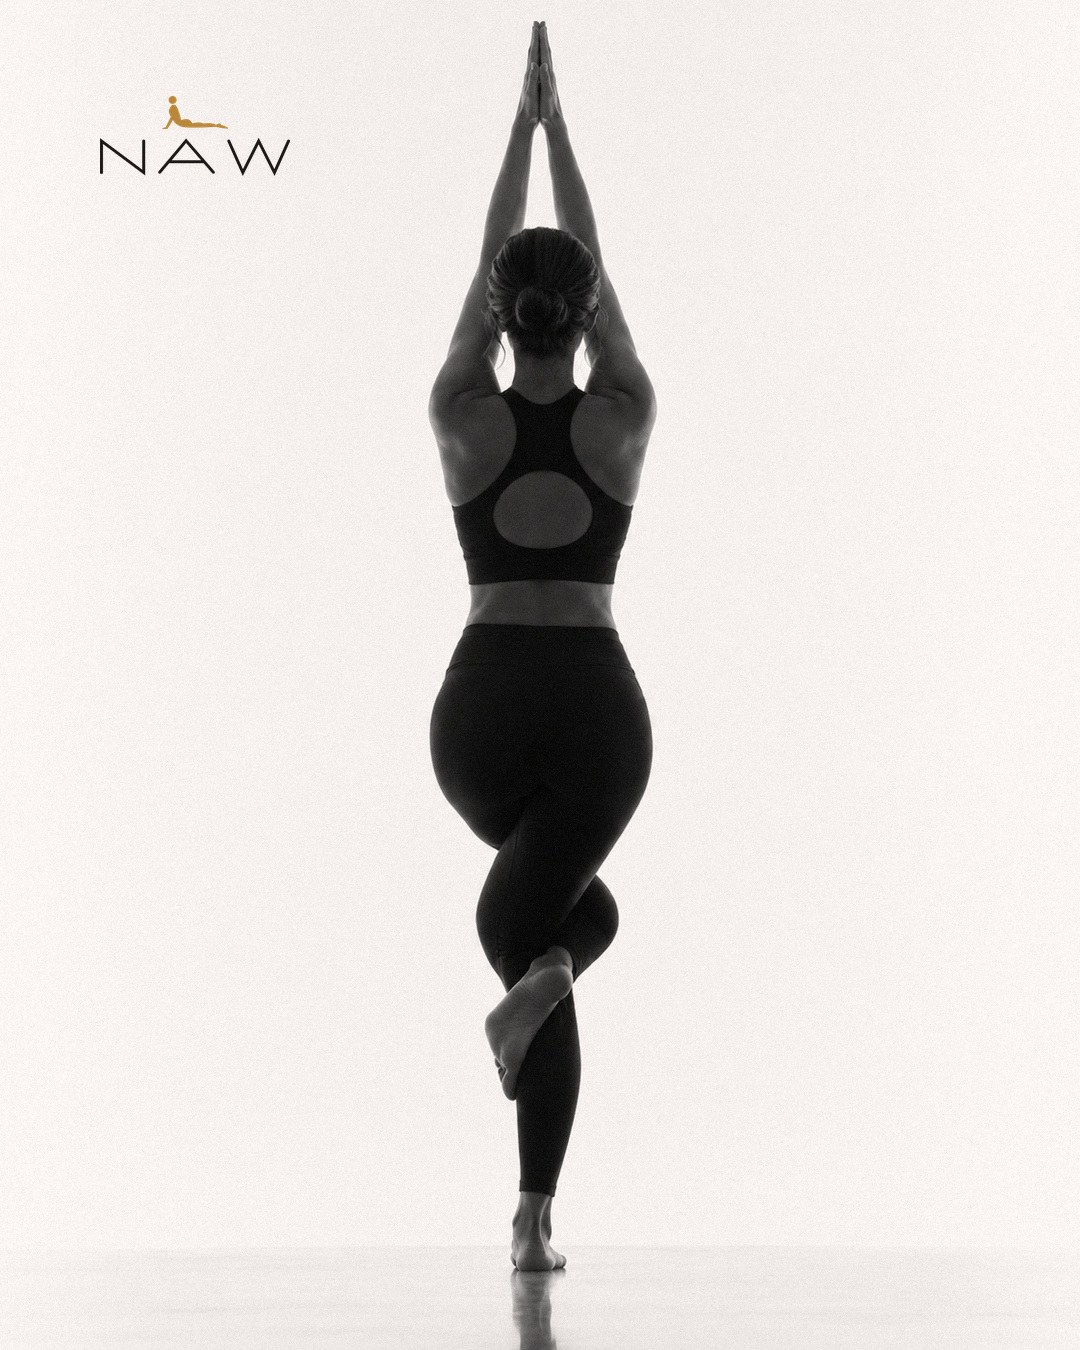
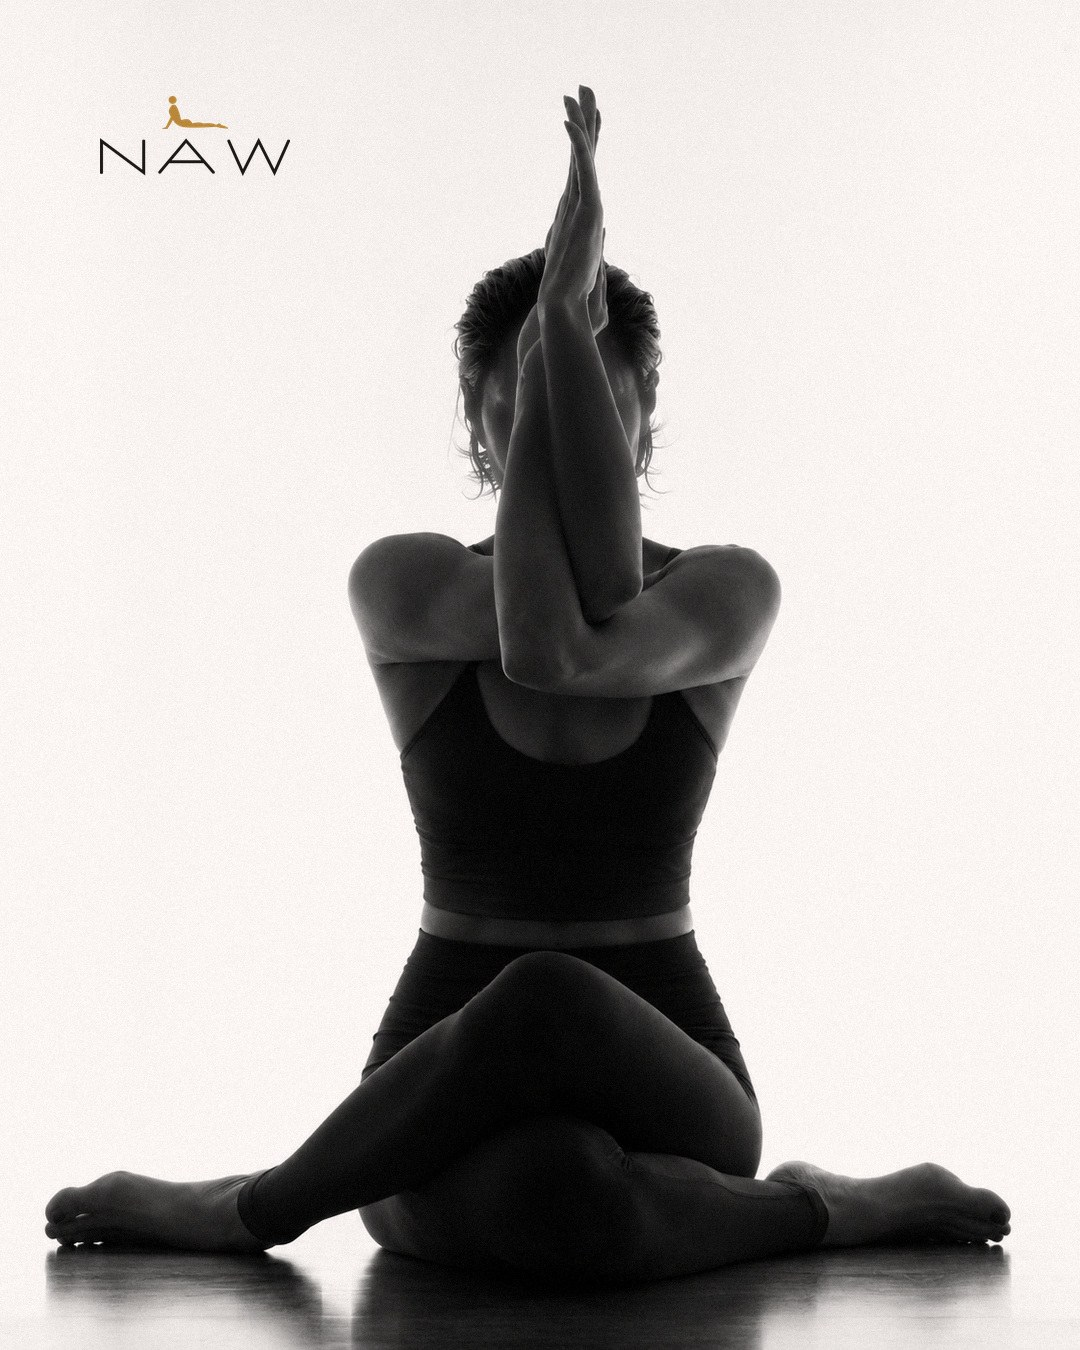
NAW: foto fijada 3 como la original, de frente y con la cara oculta

Changed region(s): [[0.0306, 0.0, 0.9472, 1.0], [0.4583, 0.5289, 0.5194, 0.56]]

diff --git a/naw/index.html b/naw/index.html
@@ -183,11 +183,11 @@
   <p class="note">Formato 1080 × 1350. Los fondos se han ampliado para llegar a 4:5 sin recortar las posturas.</p>
 
   <h3>Las tres fotos fijadas · con la ropa de NAW</h3>
-  <p class="lead">Las mismas tres ideas, ahora con el conjunto de NAW: las mallas largas negras siempre a la vista y el top solo intuido. Van de cerca a lejos (la mano, la pierna sobre la esterilla, la figura entera de espaldas con la abertura redonda del top), así cada foto enseña un poco más. Se fijan en orden 3, 2, 1 para que en el perfil se lean 1, 2, 3.</p>
+  <p class="lead">Las mismas tres ideas, ahora con el conjunto de NAW: las mallas largas negras siempre a la vista y el top solo intuido. Van de cerca a lejos (la mano, la pierna sobre la esterilla, la figura entera en la postura del águila con la cara oculta tras los brazos), así cada foto enseña un poco más. Se fijan en orden 3, 2, 1 para que en el perfil se lean 1, 2, 3.</p>
   <div class="gal g3">
     <figure><a href="img/women-pinned-1.jpg" target="_blank"><img src="img/women-pinned-1.jpg" alt="Mano en mudra sobre la rodilla con las mallas negras de NAW"></a><figcaption>1 · MUDRA · LAS MALLAS DE CERCA</figcaption></figure>
     <figure><a href="img/women-pinned-2.jpg" target="_blank"><img src="img/women-pinned-2.jpg" alt="Mudra sobre la esterilla olivo con las mallas negras de NAW"></a><figcaption>2 · ESTERILLA OLIVO · EL TOP SE INTUYE</figcaption></figure>
-    <figure><a href="img/women-pinned-3.jpg" target="_blank"><img src="img/women-pinned-3.jpg" alt="Postura del águila de espaldas con el top y las mallas de NAW"></a><figcaption>3 · GARUDASANA DE ESPALDAS · LA ABERTURA DEL TOP</figcaption></figure>
+    <figure><a href="img/women-pinned-3.jpg" target="_blank"><img src="img/women-pinned-3.jpg" alt="Postura del águila sentada, con el top y las mallas de NAW"></a><figcaption>3 · GARUDASANA · SILUETA CON LAS MALLAS</figcaption></figure>
   </div>
   <div class="gal"><figure><a href="img/women-pinned-row.jpg" target="_blank"><img src="img/women-pinned-row.jpg" alt="Las tres fotos fijadas en la cuadrícula del perfil"></a><figcaption>CÓMO SE VEN FIJADAS EN EL PERFIL · RECORTE 3:4 DE LA CUADRÍCULA</figcaption></figure></div>
 </div></section>
